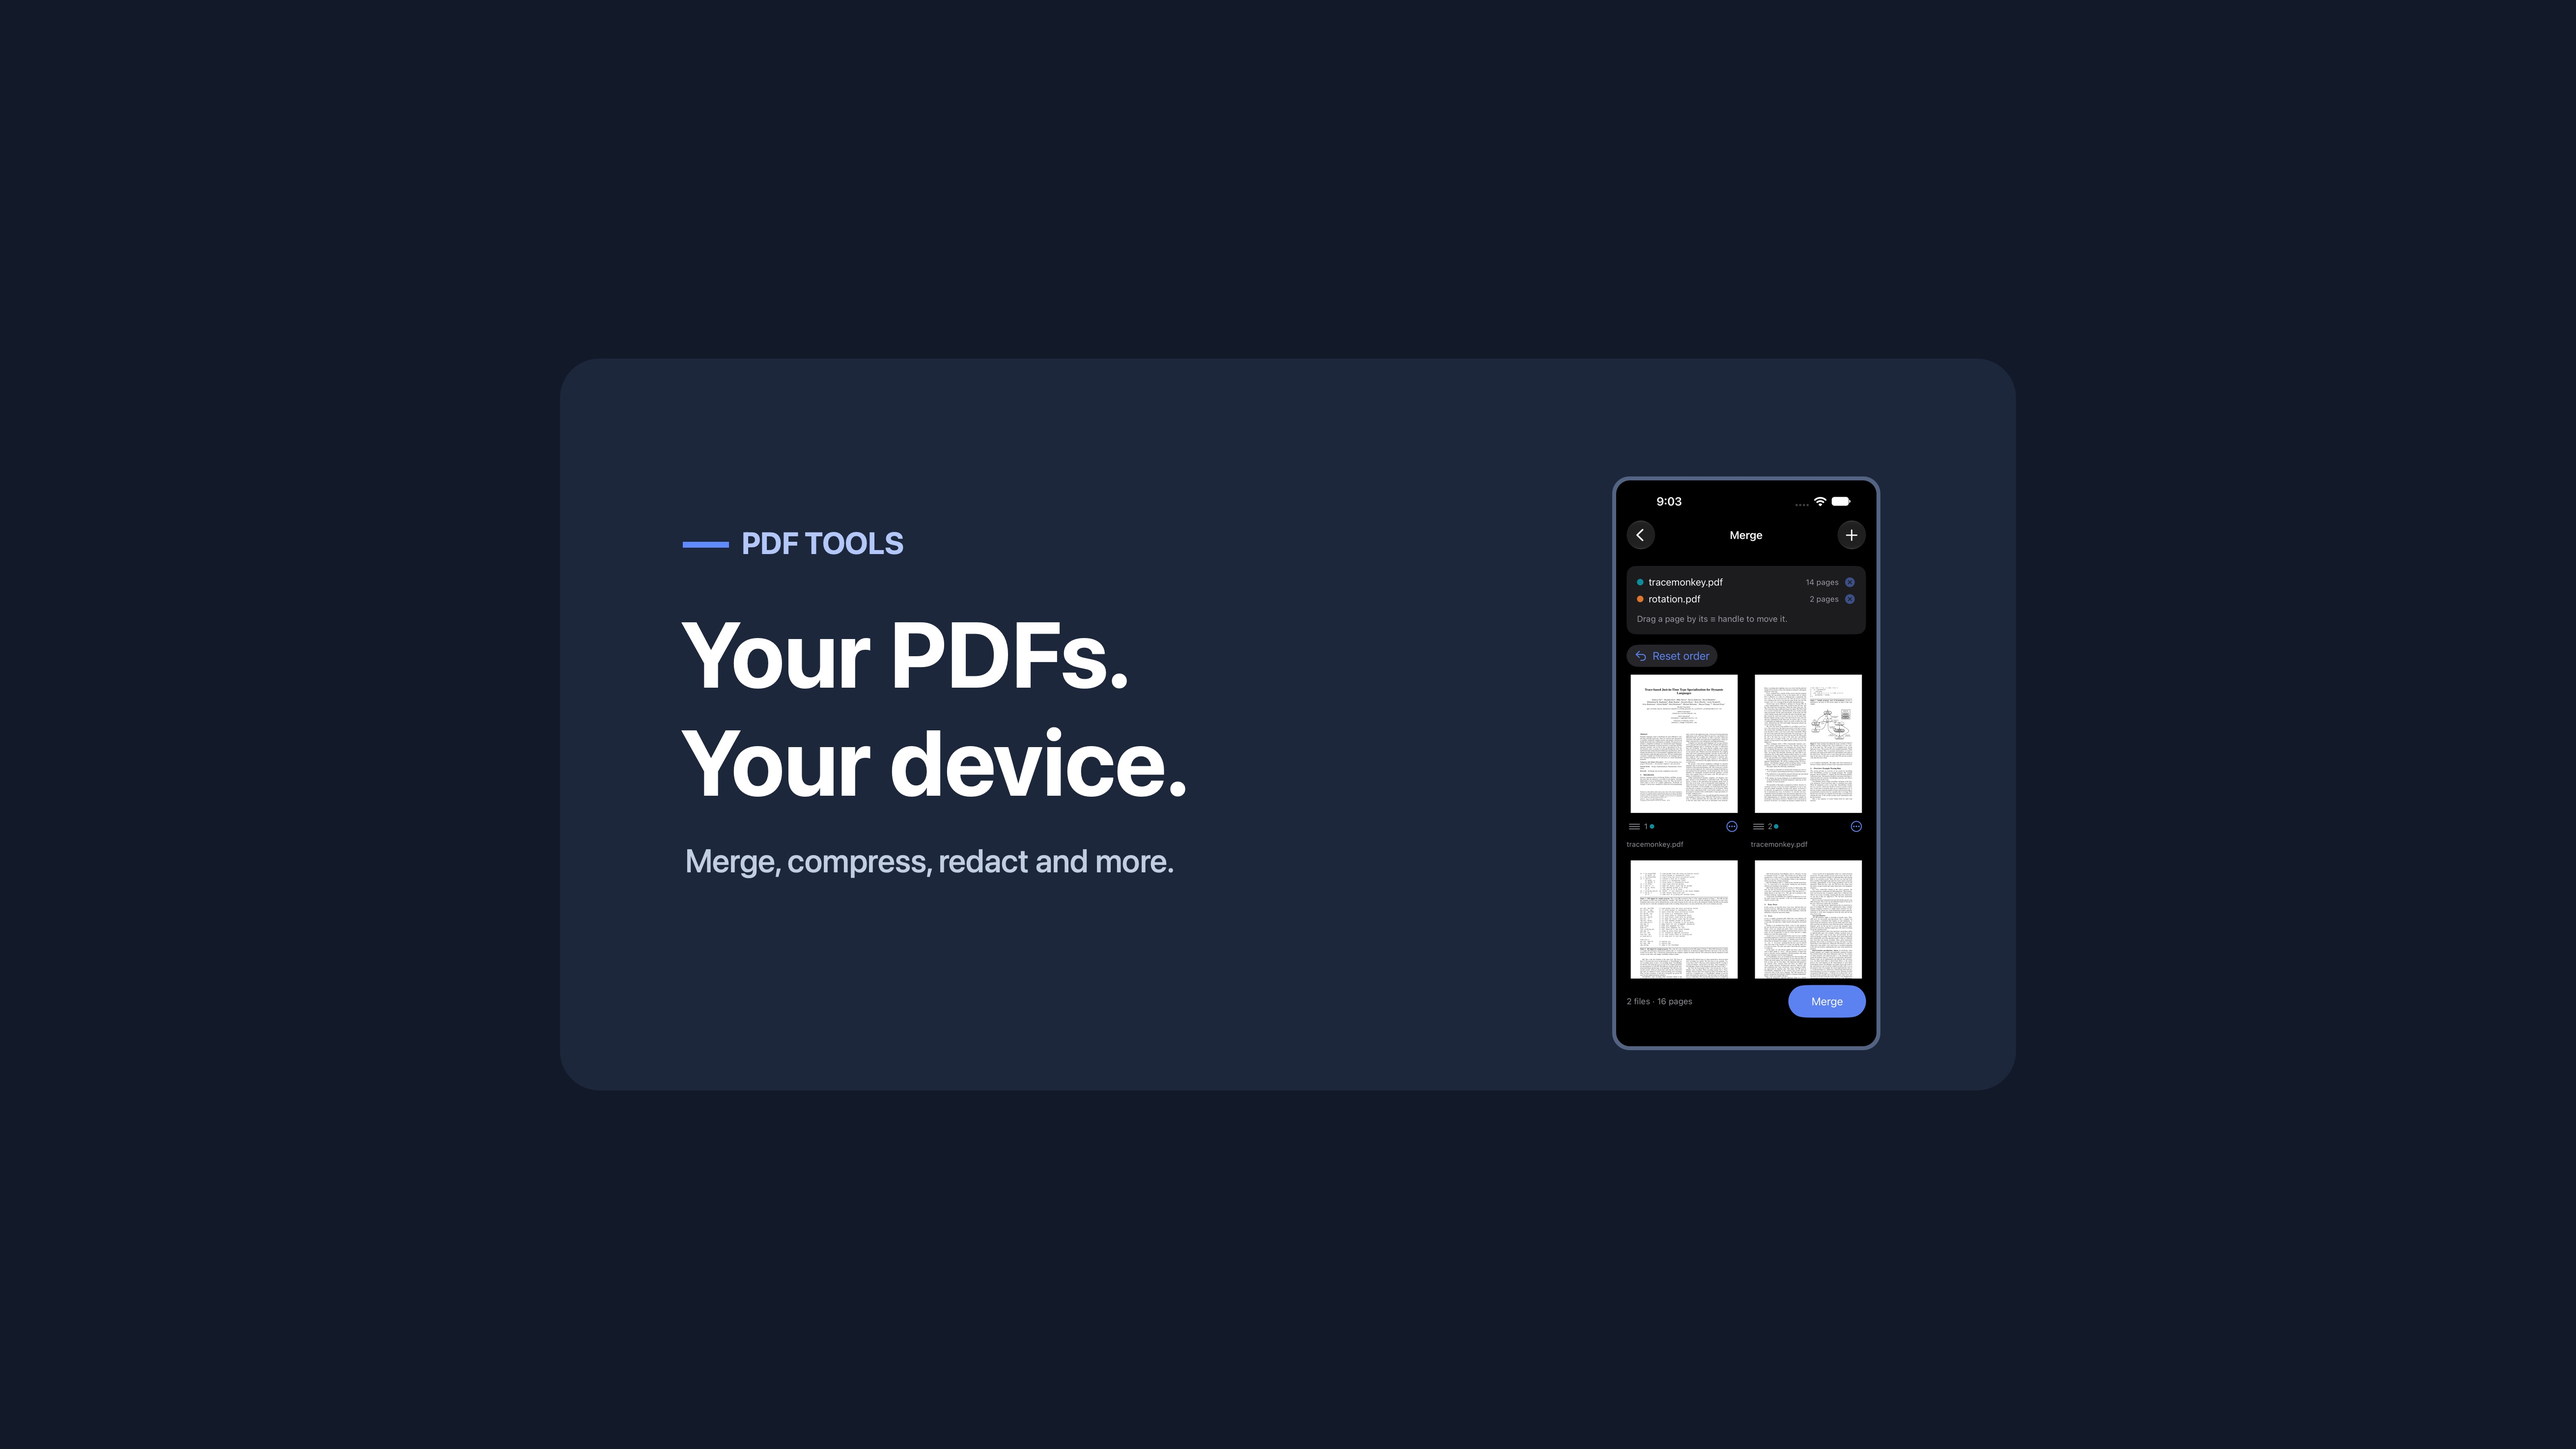
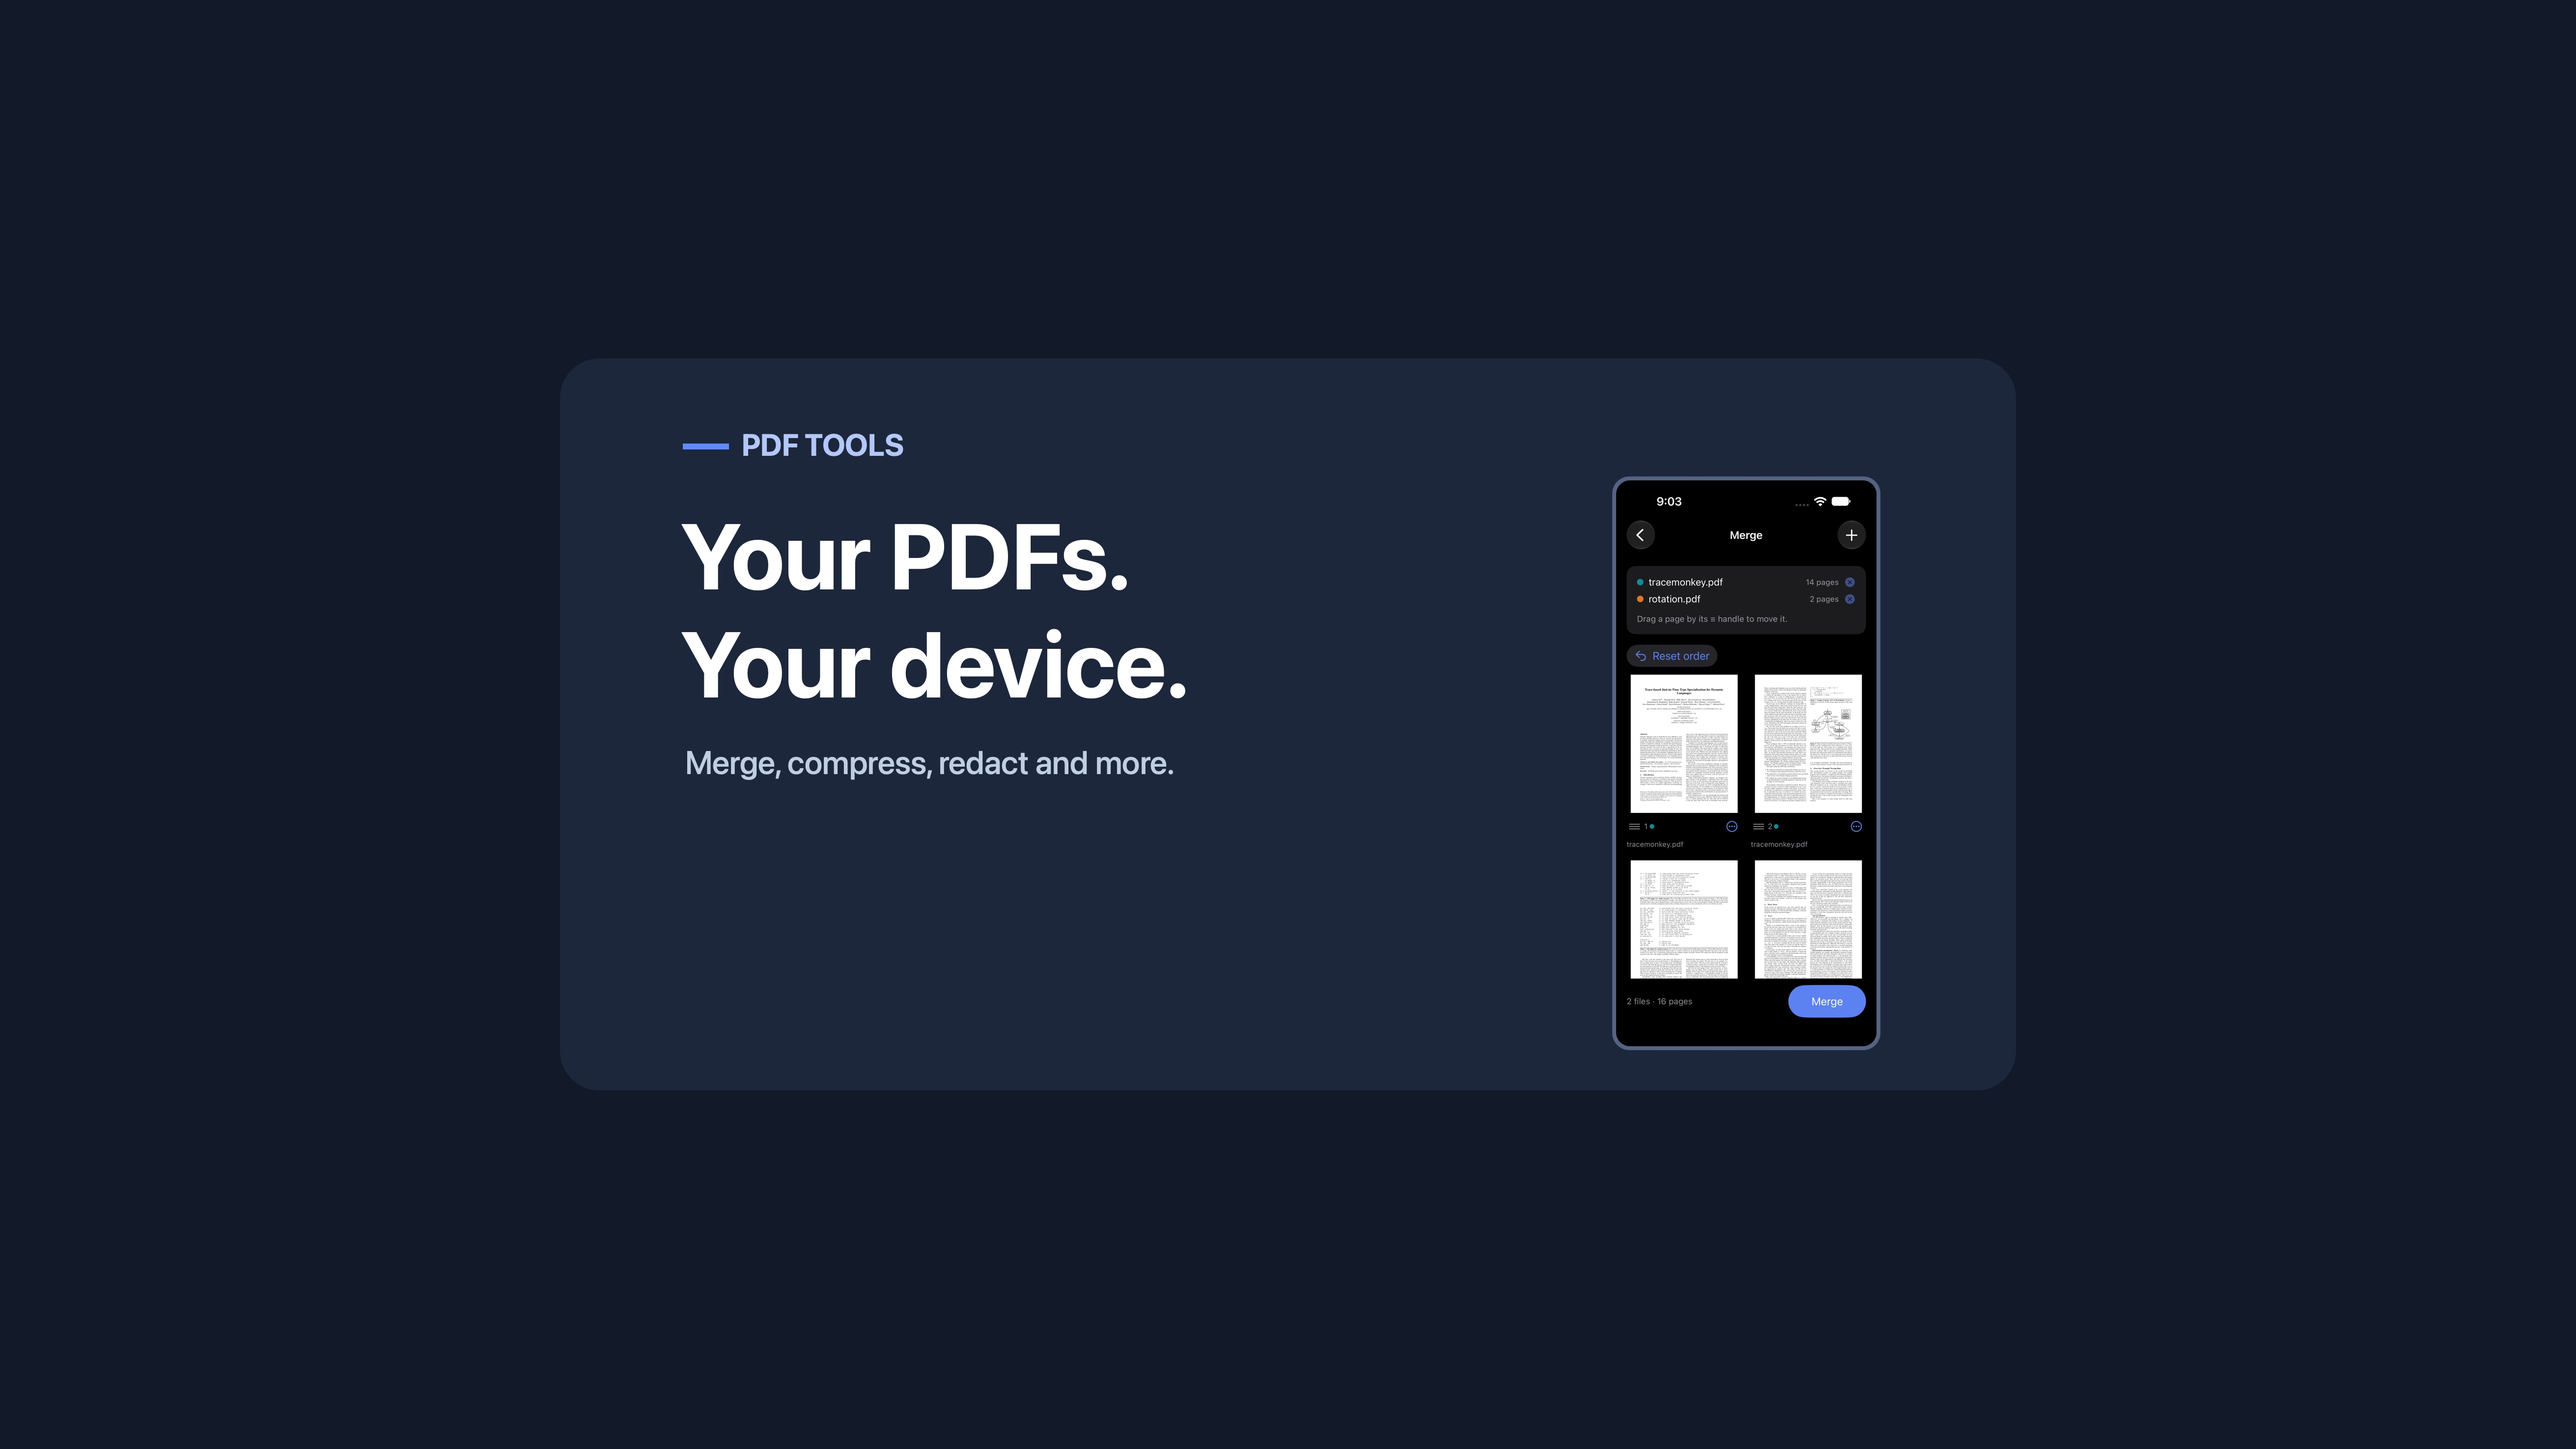
Move App Store header text into landscape safe area

Changed region(s): [[0.2487, 0.3431, 0.4662, 0.5614], [0.2797, 0.5925, 0.4352, 0.6237], [0.2797, 0.2807, 0.3419, 0.3119]]

diff --git a/docs/app-store/ios/marketing/make-assets.swift b/docs/app-store/ios/marketing/make-assets.swift
@@ -50,11 +50,11 @@ for mode in ["light", "dark"] {
 let creative = canvas(5244,2950) {
  color(18,26,42).setFill(); NSRect(x:0,y:0,width:5244,height:2950).fill()
  box(NSRect(x:1140,y:730,width:2964,height:1490),80,color(28,39,59))
- color(95,139,255).setFill(); NSRect(x:1390,y:1835,width:94,height:12).fill()
- text("PDF TOOLS",1510,1809,62,.bold,color(180,199,249))
- text("Your PDFs.",1385,1510,188,.bold,NSColor.white)
- text("Your device.",1385,1290,188,.bold,NSColor.white)
- text("Merge, compress, redact and more.",1395,1160,66,.medium,color(193,205,225))
+ color(95,139,255).setFill(); NSRect(x:1390,y:2035,width:94,height:12).fill()
+ text("PDF TOOLS",1510,2009,62,.bold,color(180,199,249))
+ text("Your PDFs.",1385,1710,188,.bold,NSColor.white)
+ text("Your device.",1385,1490,188,.bold,NSColor.white)
+ text("Merge, compress, redact and more.",1395,1360,66,.medium,color(193,205,225))
  let rect = NSRect(x:3290,y:820,width:530,height:1152)
  box(rect.insetBy(dx:-8,dy:-8),35,color(83,99,129))
  NSGraphicsContext.saveGraphicsState(); NSBezierPath(roundedRect:rect,xRadius:28,yRadius:28).addClip(); image("docs/design-reviews/screenshots/ios/dark/tools/merge-configured.png").draw(in:rect); NSGraphicsContext.restoreGraphicsState()
